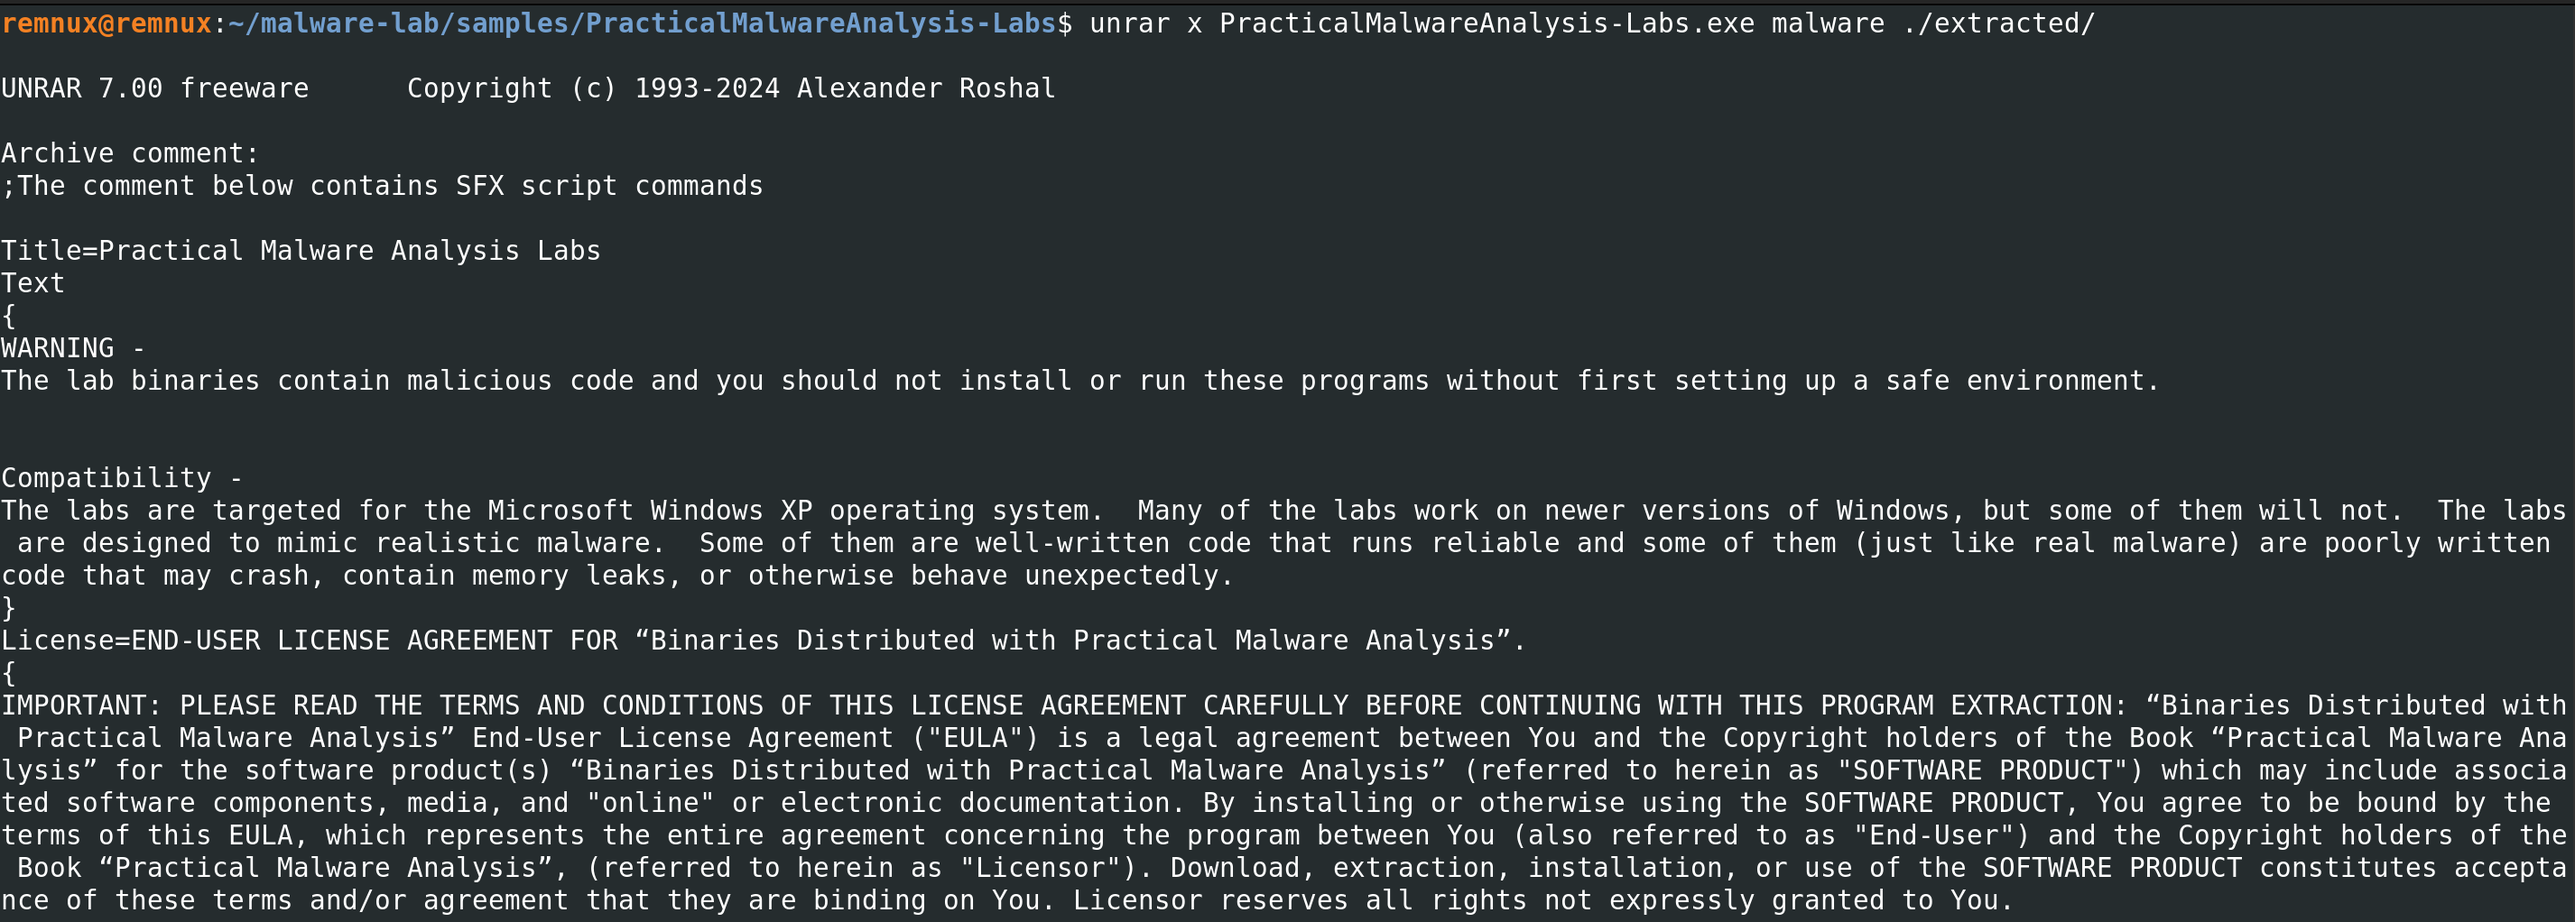
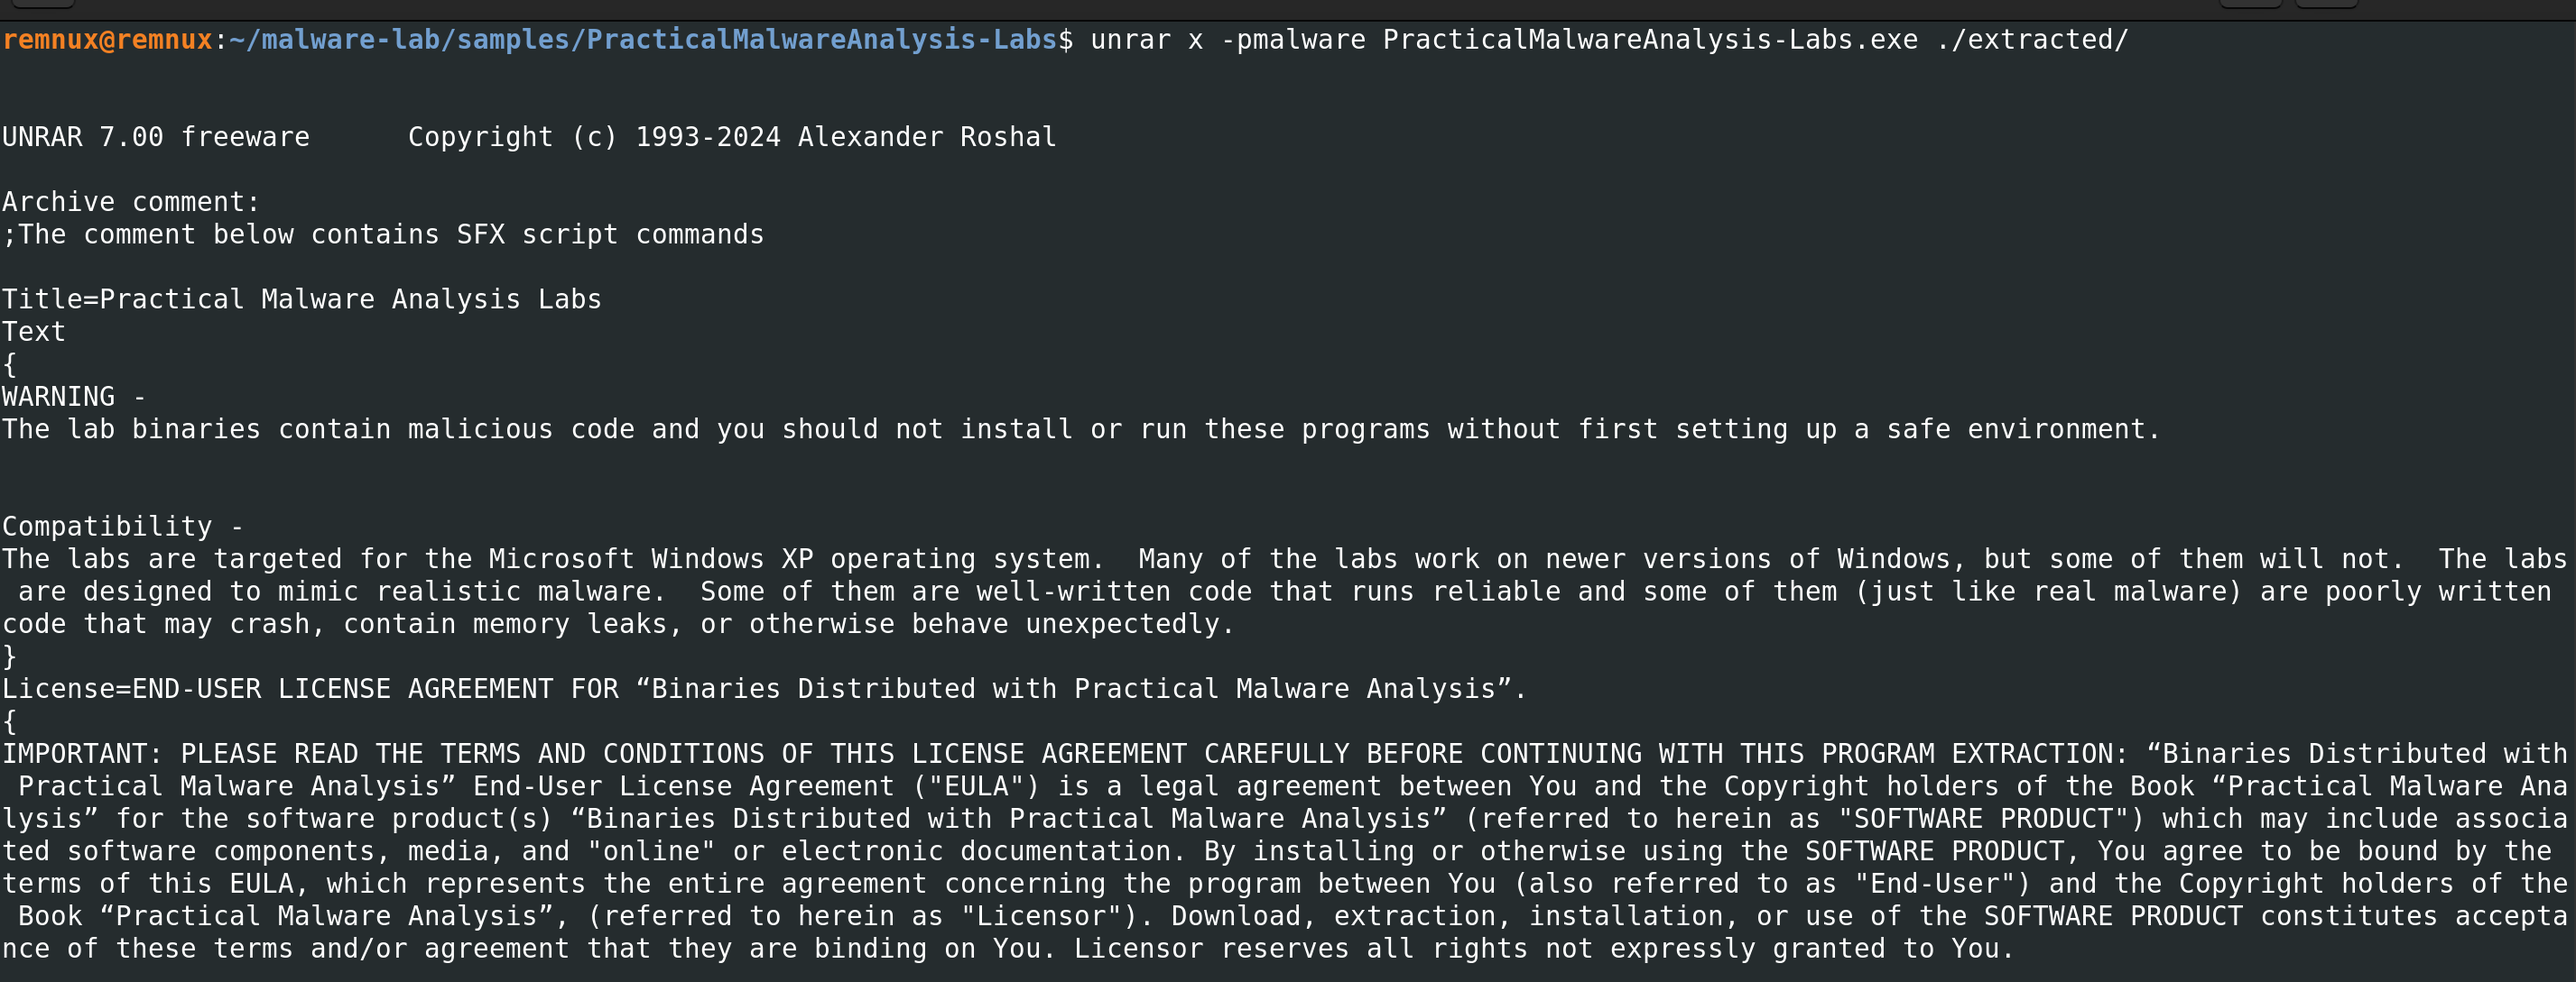
Update malware analysis notes - 2026-04-28 14:22:04

Changed region(s): [[0.0, 0.5157, 0.9982, 1.0], [0.0, 0.0, 0.9359, 0.455], [0.156, 0.091, 0.4055, 0.1517]]

diff --git a/malware-analysis/lab-02-basic-static-analysis/lab-02-sample-acquisition.md b/malware-analysis/lab-02-basic-static-analysis/lab-02-sample-acquisition.md
@@ -224,84 +224,33 @@ sudo apt install unrar -y
 unrar x PracticalMalwareAnalysis-Labs.exe malware ./extracted/
 ```
 
-**Note**: Remember to locate yourself within `~/malware-lab/samples/` directory. `extracted` direc
+**Note**: Remember to locate yourself within `~/malware-lab/samples/` directory. `extracted` folder lives within `PracticalMalwareAnalysis`. 
  
 <div align="center">
   <img src="images/lab-disclaimer.png" width="1050" alt="PowerShell pre-installation verification results"/>
   </div>
 
-`unrar` correctly displayed the archive's, which showed the EULA and safety warnings embedded in the executable. This was itself an interesting static analysis observation — the executable contains a significant amount of embedded plaintext. The extraction tool parsed all of this correctly.
+<div align="center">
+  <img src="images/dir-repo-location7.png" width="1050" alt="PowerShell pre-installation verification results"/>
+  </div>
 
-However, the final lines of the output read:
-
-```
-Extracting from PracticalMalwareAnalysis-Labs.exe
-No files to extract
-```
-
-The problem was subtle: in my command, I had written `malware` as a separate argument after the source file, intending it as the password. But `unrar` interpreted `malware` as a **filename filter** — a pattern specifying which files inside the archive to extract — not as the password. Since no file inside the archive was named `malware`, nothing was extracted.
-
-The correct `unrar` syntax places the password immediately after the `-p` flag with no space between the flag and the value:
-
-```
-# Wrong:  unrar x archive.exe password ./destination/
-# Correct: unrar x -ppassword archive.exe ./destination/
-```
-
-This is a syntax difference from 7zip, which uses a space: `7z x archive -ppassword`. Mixing up the two is an easy mistake when switching between tools.
-
-> 📸 **Screenshot recommendation:** Capture the terminal showing the "No files to extract" output. This is a great troubleshooting moment to document — it shows you understand *why* it failed, not just that it failed.
+`unrar` correctly extracted the archive's, which showed OK warnings.
 
 ---
-
-### 4.5 Successful Extraction
-
-With the correct syntax identified, I reran the command:
-
-```bash
-unrar x -pmalware PracticalMalwareAnalysis-Labs.exe ./extracted/
-```
-
-This time, `unrar` displayed the archive's embedded EULA comment (which I scrolled through — it confirms these binaries are licensed for educational use only with *Practical Malware Analysis*), and then began extracting. The output showed each file being extracted with an `OK` status:
-
-```
-Extracting  ./extracted/Practical Malware Analysis Labs/BinaryCollection/Chapter_1L/Lab01-01.dll   OK
-Extracting  ./extracted/Practical Malware Analysis Labs/BinaryCollection/Chapter_1L/Lab01-01.exe   OK
-Extracting  ./extracted/Practical Malware Analysis Labs/BinaryCollection/Chapter_1L/Lab01-02.exe   OK
-Extracting  ./extracted/Practical Malware Analysis Labs/BinaryCollection/Chapter_1L/Lab01-03.exe   OK
-Extracting  ./extracted/Practical Malware Analysis Labs/BinaryCollection/Chapter_1L/Lab01-04.exe   OK
-...
-All OK
-```
-
-The final line — `All OK` — confirmed a clean extraction with no errors. All 73 previously failed files were now successfully extracted.
-
-It is worth noting what the archive actually contains across all chapters. The full binary collection spans Chapters 1 through 21, including `.exe`, `.dll`, `.sys`, `.py`, `.bin`, and `.pdf` files — a wide variety of malware types that I will work through progressively as I advance through the curriculum.
-
-> 📸 **Screenshot recommendation:** Capture two screenshots: (1) the scrolling extraction output showing multiple `OK` statuses, and (2) the final `All OK` line at the bottom. This is your confirmation of successful acquisition.
-
----
-
-### 4.6 Sample Confirmation
+### 4.5 Sample Confirmation
 
 After the successful extraction, I ran a search to confirm that the specific Chapter 1 samples were present and accessible:
 
-```bash
-find ./extracted -name "Lab01*"
-```
+<div align="center">
+  <img src="images/dir-repo-location8.png" width="1050" alt="PowerShell pre-installation verification results"/>
+  </div>
+<div align="center">
+  <img src="images/dir-repo-location9.png" width="1050" alt="PowerShell pre-installation verification results"/>
+  </div>
 
-**Expected and confirmed output:**
-```
-./extracted/Practical Malware Analysis Labs/BinaryCollection/Chapter_1L/Lab01-01.dll
-./extracted/Practical Malware Analysis Labs/BinaryCollection/Chapter_1L/Lab01-01.exe
-./extracted/Practical Malware Analysis Labs/BinaryCollection/Chapter_1L/Lab01-02.exe
-./extracted/Practical Malware Analysis Labs/BinaryCollection/Chapter_1L/Lab01-03.exe
-./extracted/Practical Malware Analysis Labs/BinaryCollection/Chapter_1L/Lab01-04.exe
-```
+My primary targets `Lab01-01.exe` and `Lab01-01.dll` were confirmed present after diving into `extracted` directory. These two files are the subject of Chapter 1's lab exercises in Sikorski and Honig (2012). The `.exe` is the main binary and the `.dll` is a companion library that the executable loads at runtime. Both must be present for a complete analysis.
 
-My primary targets — `Lab01-01.exe` and `Lab01-01.dll` — are confirmed present. These two files are the subject of Chapter 1's lab exercises in Sikorski and Honig (2012). The `.exe` is the main binary and the `.dll` is a companion library that the executable loads at runtime. Both must be present for a complete analysis.
-
-The full directory structure on REMnux at this point looks like this:
+My full directory structure on REMnux at this point looks like this:
 
 ```
 ~/malware-lab/
@@ -325,11 +274,9 @@ The full directory structure on REMnux at this point looks like this:
 │                   ├── Chapter_5L/
 │                   └── ... (all chapters)
 ├── reports/
-│   └── Lab01-01-notes.txt   ← created next
+│   └── Lab01-01-notes.txt   ← the next
 └── tools/
 ```
-
-> 📸 **Screenshot recommendation:** Capture the `find` command output confirming the Lab01 files are present. This is your acquisition proof-of-work.
 
 ---
 
